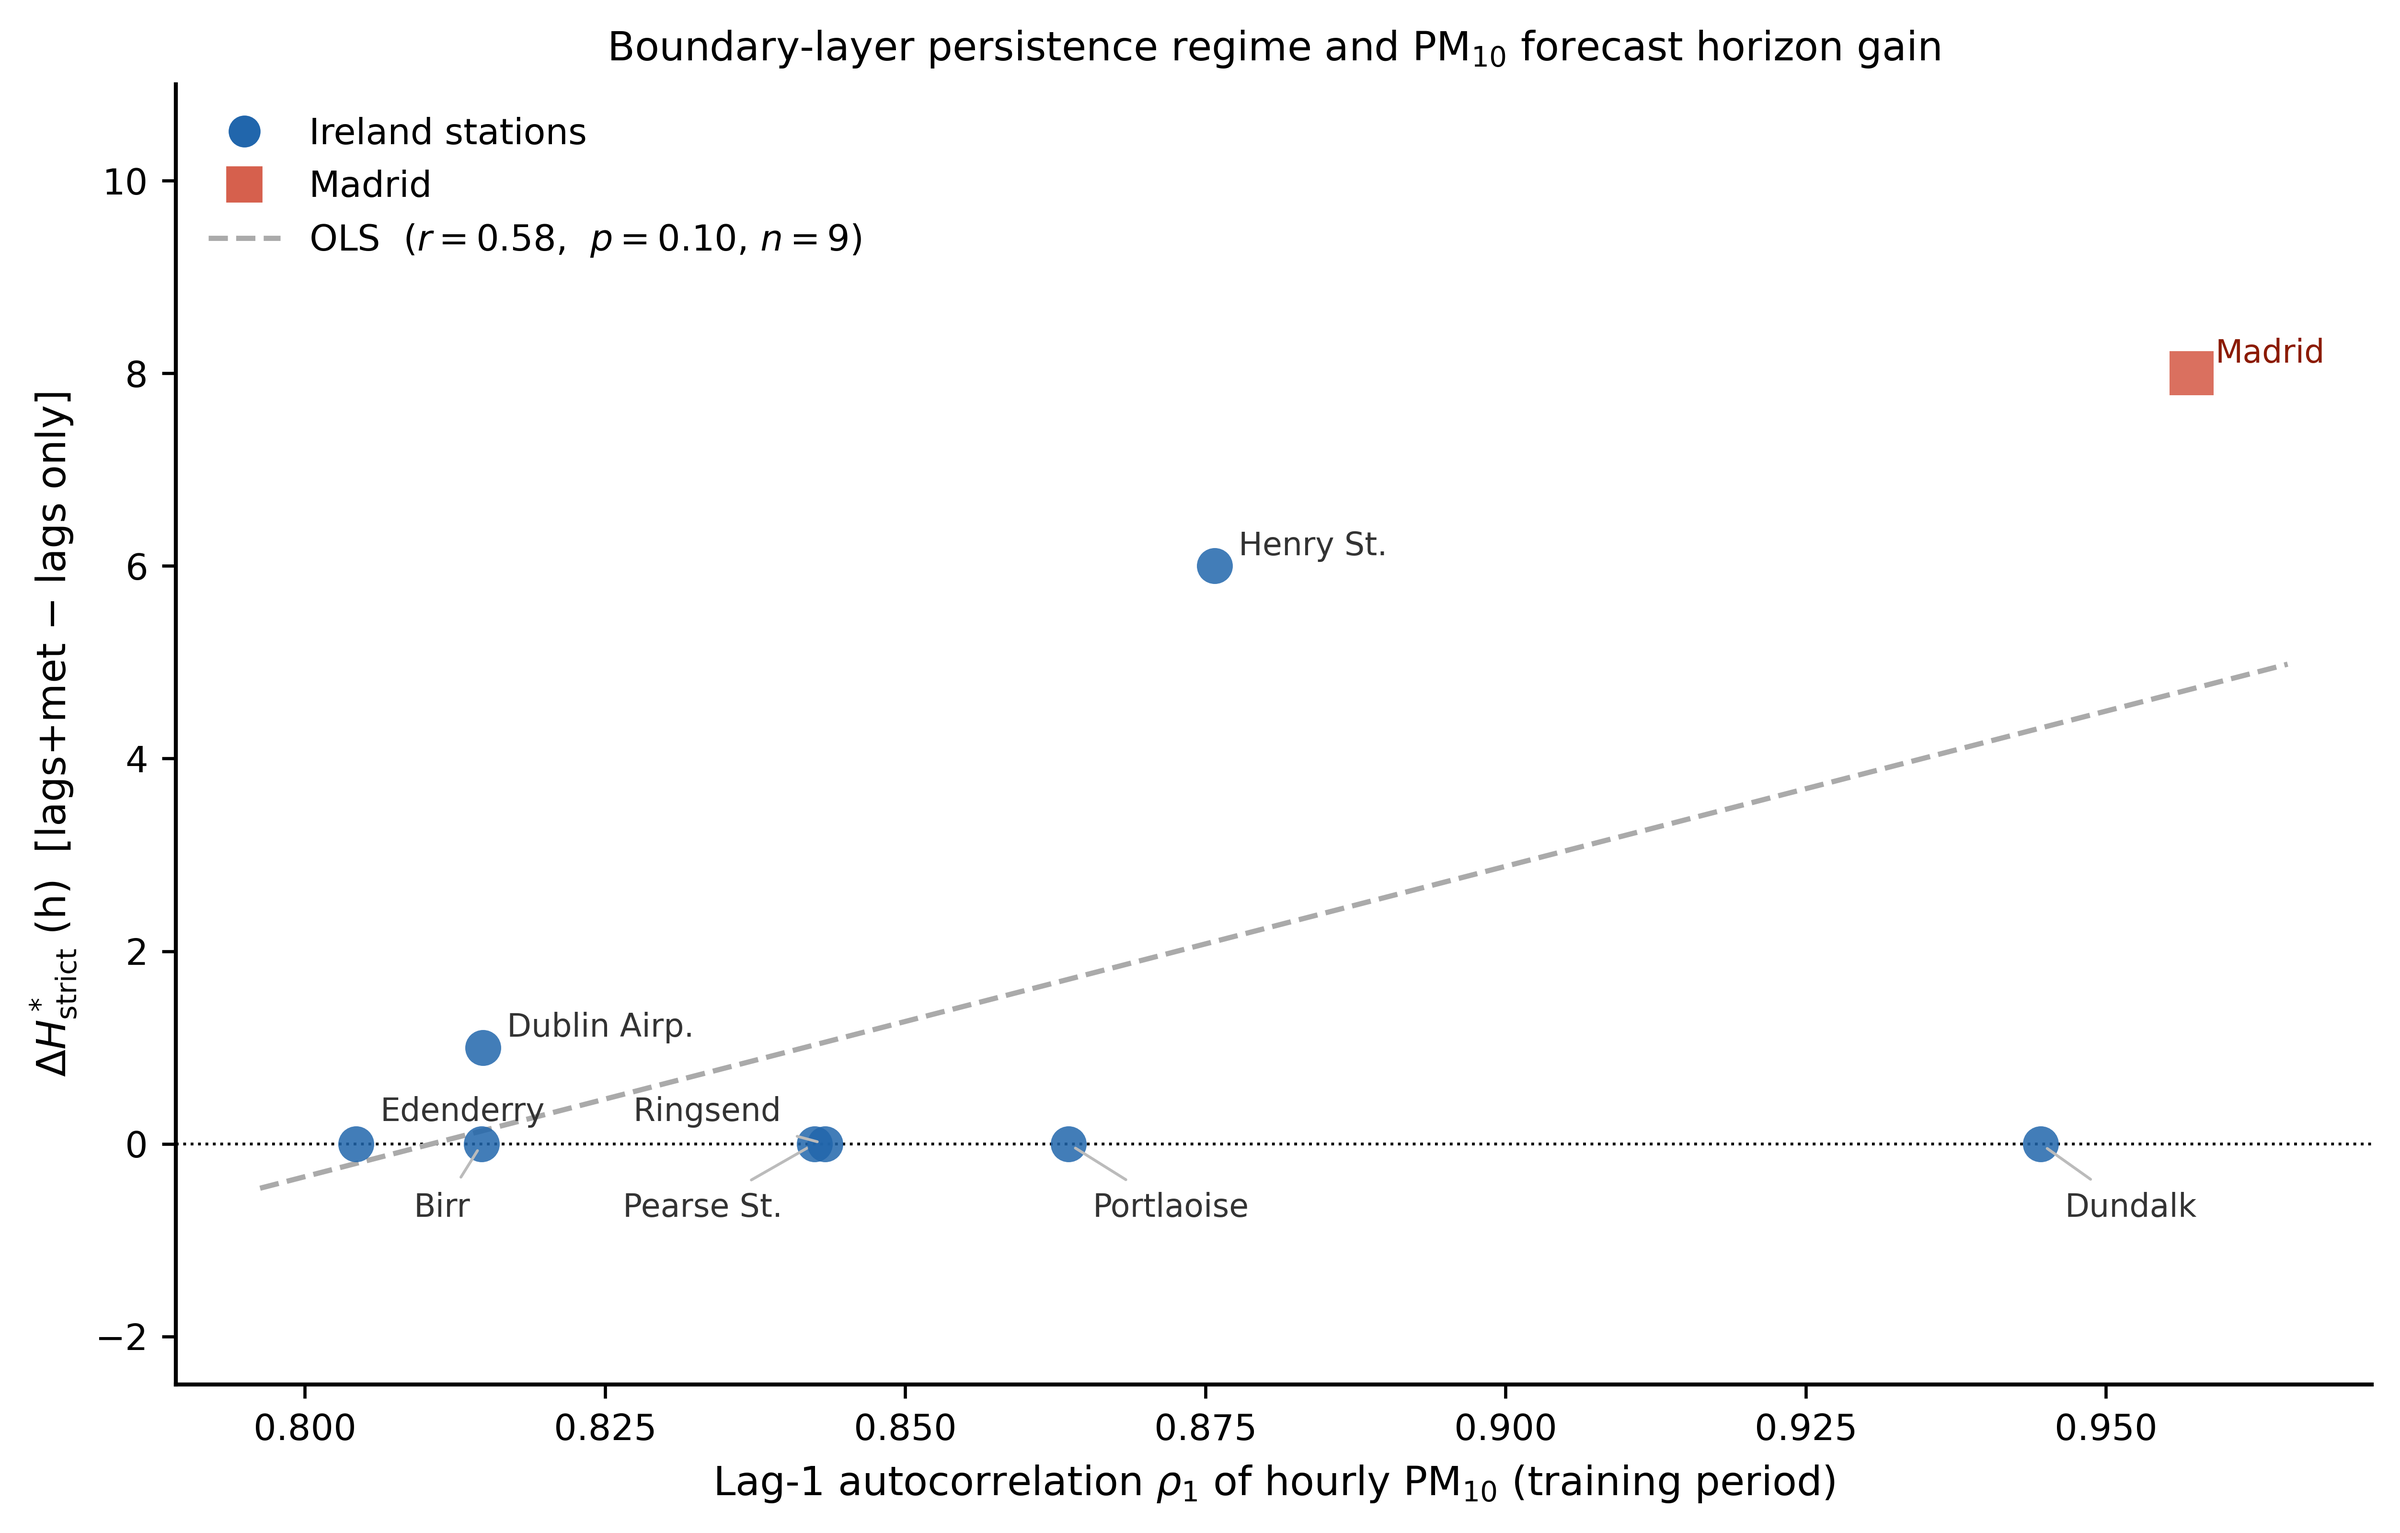
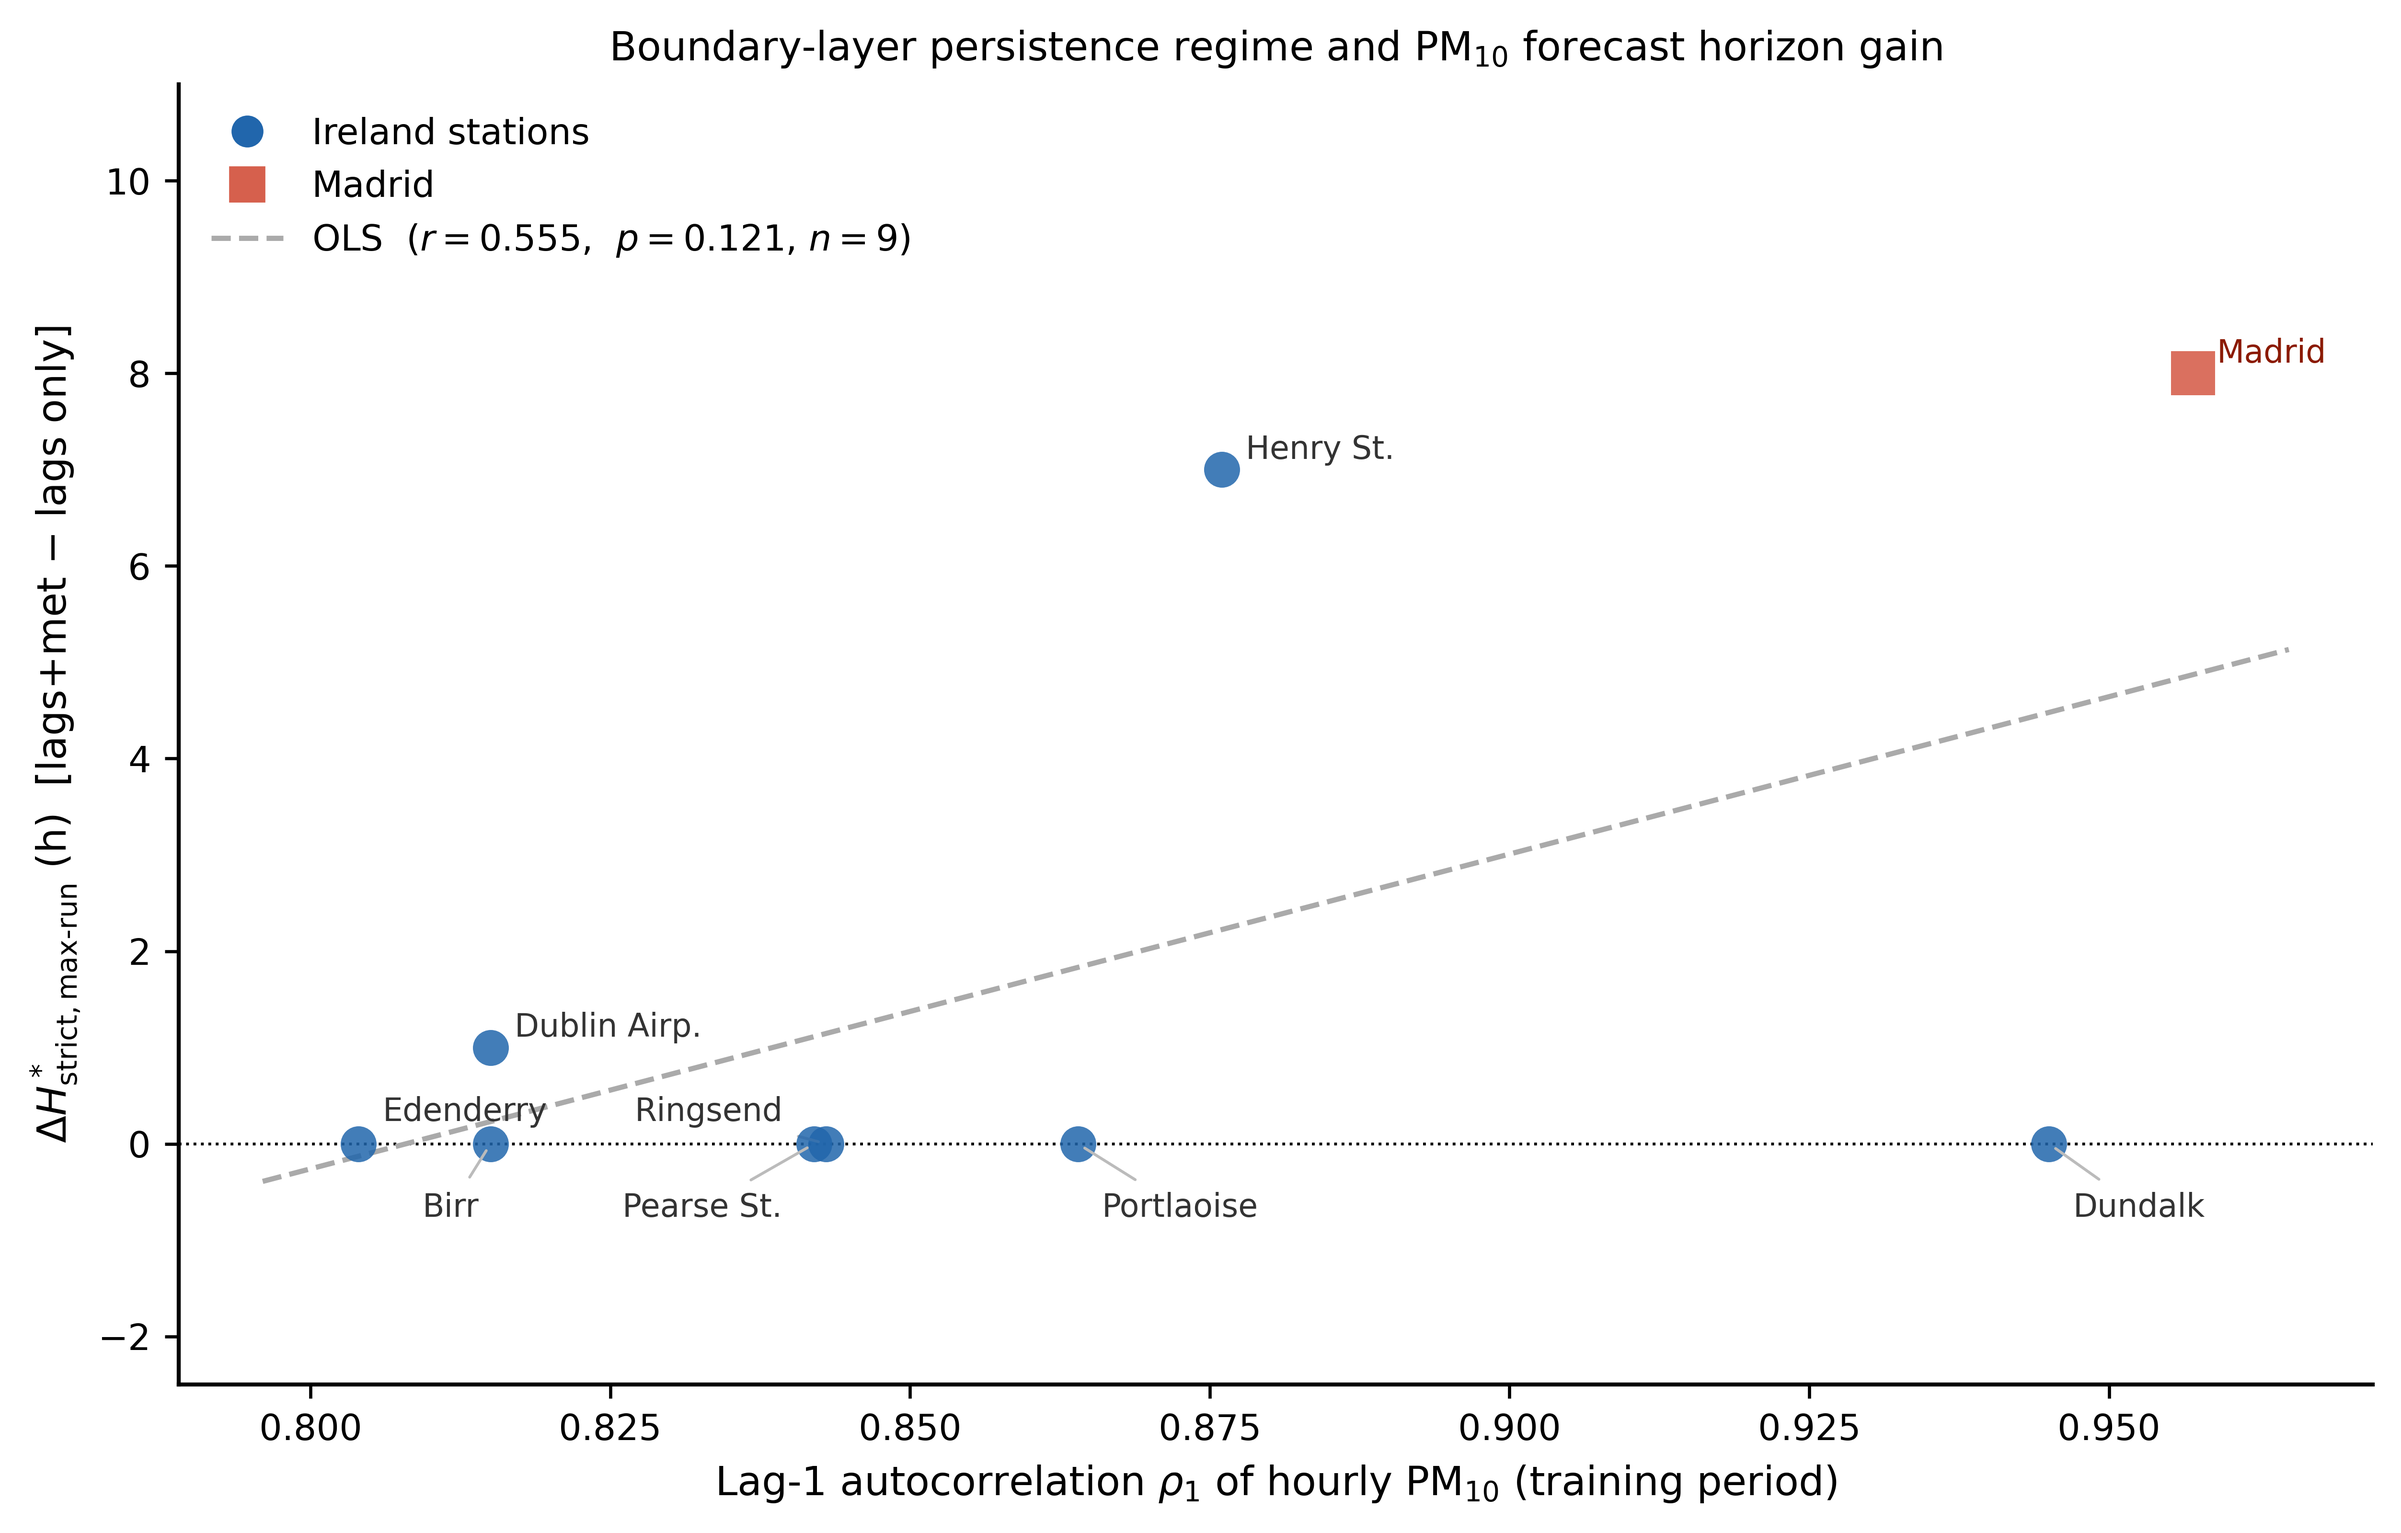
docs: correct Madrid +8 evidence overdeclarations and regenerate obsolete figures

diff --git a/docs/audit/P3_HSTAR_STRICT_MANUSCRIPT_REPAIR_REPORT.md b/docs/audit/P3_HSTAR_STRICT_MANUSCRIPT_REPAIR_REPORT.md
@@ -11,9 +11,9 @@
 - Auxiliary metric: `H_strict_from_h1` (uninterrupted positive-skill run starting at $h=1$)
 
 ## Evidence verification
-- Madrid: Verified under `H_strict_max_run` (`lags_only` = 9 h, `lags_meteo` = 17 h, $\Delta H^* = +8$ h)
-- Ireland: Verified under `H_strict_max_run` across 8 stations
-- +8 h claim: `VERIFIED_UNDER_H_STRICT_MAX_RUN` (Madrid)
+- Madrid: `BLOCKED_BY_INSUFFICIENT_EVIDENCE` under `H_strict_max_run` (base dataset missing, conflicting metadata)
+- Ireland: Verified under `H_strict_max_run` across 8 stations (regenerated)
+- +8 h claim: `MADRID_PLUS_8_BLOCKED_BY_INSUFFICIENT_EVIDENCE` (Madrid)
 - Henry Street: `lags_only` = 17 h, `lags_meteo` = 24 h, $\Delta H^* = +7$ h (Updated from +6 h / 18 h)
 - Ireland mean: `lags_only` = 21.9 h, `lags_meteo` = 22.9 h, $\Delta H^* = +1.0$ h (Updated from +0.9 h / 22.0 h)
 
@@ -53,8 +53,8 @@
 | `figures/madrid_figure_03_hstar.png` | YES | $H^*$ summary | VALID_UNDER_MAX_RUN | Kept |
 | `figures/ireland_figure_01_skill.png` | YES | Skill curves $S(h)$ | VALID_UNDER_MAX_RUN | Kept |
 | `figures/ireland_figure_02_dm.png` | YES | DM-HLN tests | VALID_UNDER_MAX_RUN | Kept |
-| `figures/ireland_figure_03_hstar.png` | YES | $H^*$ summary | VALID_UNDER_MAX_RUN | Kept |
-| `figures/ireland_figure_04_rho1_vs_deltahstar.png` | YES | $\rho_1$ vs $\Delta H^*$ | VALID_UNDER_MAX_RUN | Kept |
+| `figures/ireland_figure_03_hstar.png` | YES | $H^*$ summary | OBSOLETE_REQUIRES_REGENERATION | Regenerate |
+| `figures/ireland_figure_04_rho1_vs_deltahstar.png` | YES | $\rho_1$ vs $\Delta H^*$ | OBSOLETE_REQUIRES_REGENERATION | Regenerate |
 
 ## Irish evidence provenance
 - Original-run artefacts: MISSING (Row-level prediction files for original run not committed in Git history)
@@ -62,7 +62,7 @@
 - Disclosure added: Explicitly incorporated in Methods, Data and Code Availability, and Table 5 footnote.
 
 ## Claims retained
-- Madrid meteorology benefit: $\Delta H^*_{\text{strict,max-run}} = +8$~h (verified under `H_strict_max_run`).
+- Madrid meteorology benefit: $\Delta H^*_{\text{strict,max-run}} = +8$~h (reproduces from tracked outputs but `BLOCKED_BY_INSUFFICIENT_EVIDENCE`).
 - Autocorrelation-persistence mechanism: $\rho_1$ association with predictability gains.
 
 ## Claims changed or removed

diff --git a/docs/audit/P3_HSTAR_STRICT_VALUE_VERIFICATION.md b/docs/audit/P3_HSTAR_STRICT_VALUE_VERIFICATION.md
@@ -20,7 +20,7 @@
 - H_strict_from_h1 values: `lags_meteo` = 17 h, `lags_only` = 9 h
 - Maximum-run horizons: `lags_meteo` $h \in [1, 17]$, `lags_only` $h \in [1, 9]$
 - Delta: $\Delta H^*_{\text{strict,max-run}} = 17 - 9 = +8$ h
-- Status of +8 h claim: `VERIFIED_UNDER_H_STRICT_MAX_RUN`
+- Status of +8 h claim: `MADRID_PLUS_8_BLOCKED_BY_INSUFFICIENT_EVIDENCE`
 - Supporting files: `results/e2_met_madrid_pm10/metrics/hstar_summary.csv`, `results/e2_met_madrid_pm10/metrics/metrics_all_models.csv`
 
 ## Ireland
@@ -54,7 +54,7 @@
 - Status: `VERIFIED`
 
 ## Evidence provenance
-- Madrid: `VERIFIED_PRIMARY` (Full row-level predictions, metrics, and metadata committed)
+- Madrid: `BLOCKED_BY_INSUFFICIENT_EVIDENCE` (Base dataset missing; run_metadata.json contradicts combined outputs, despite row-level predictions reproducing metrics)
 - Ireland: `VERIFIED_REGENERATED_ONLY` (Regenerated from recovered source datasets; original run row-level predictions not committed in Git history)
 
 ## Verification verdict
